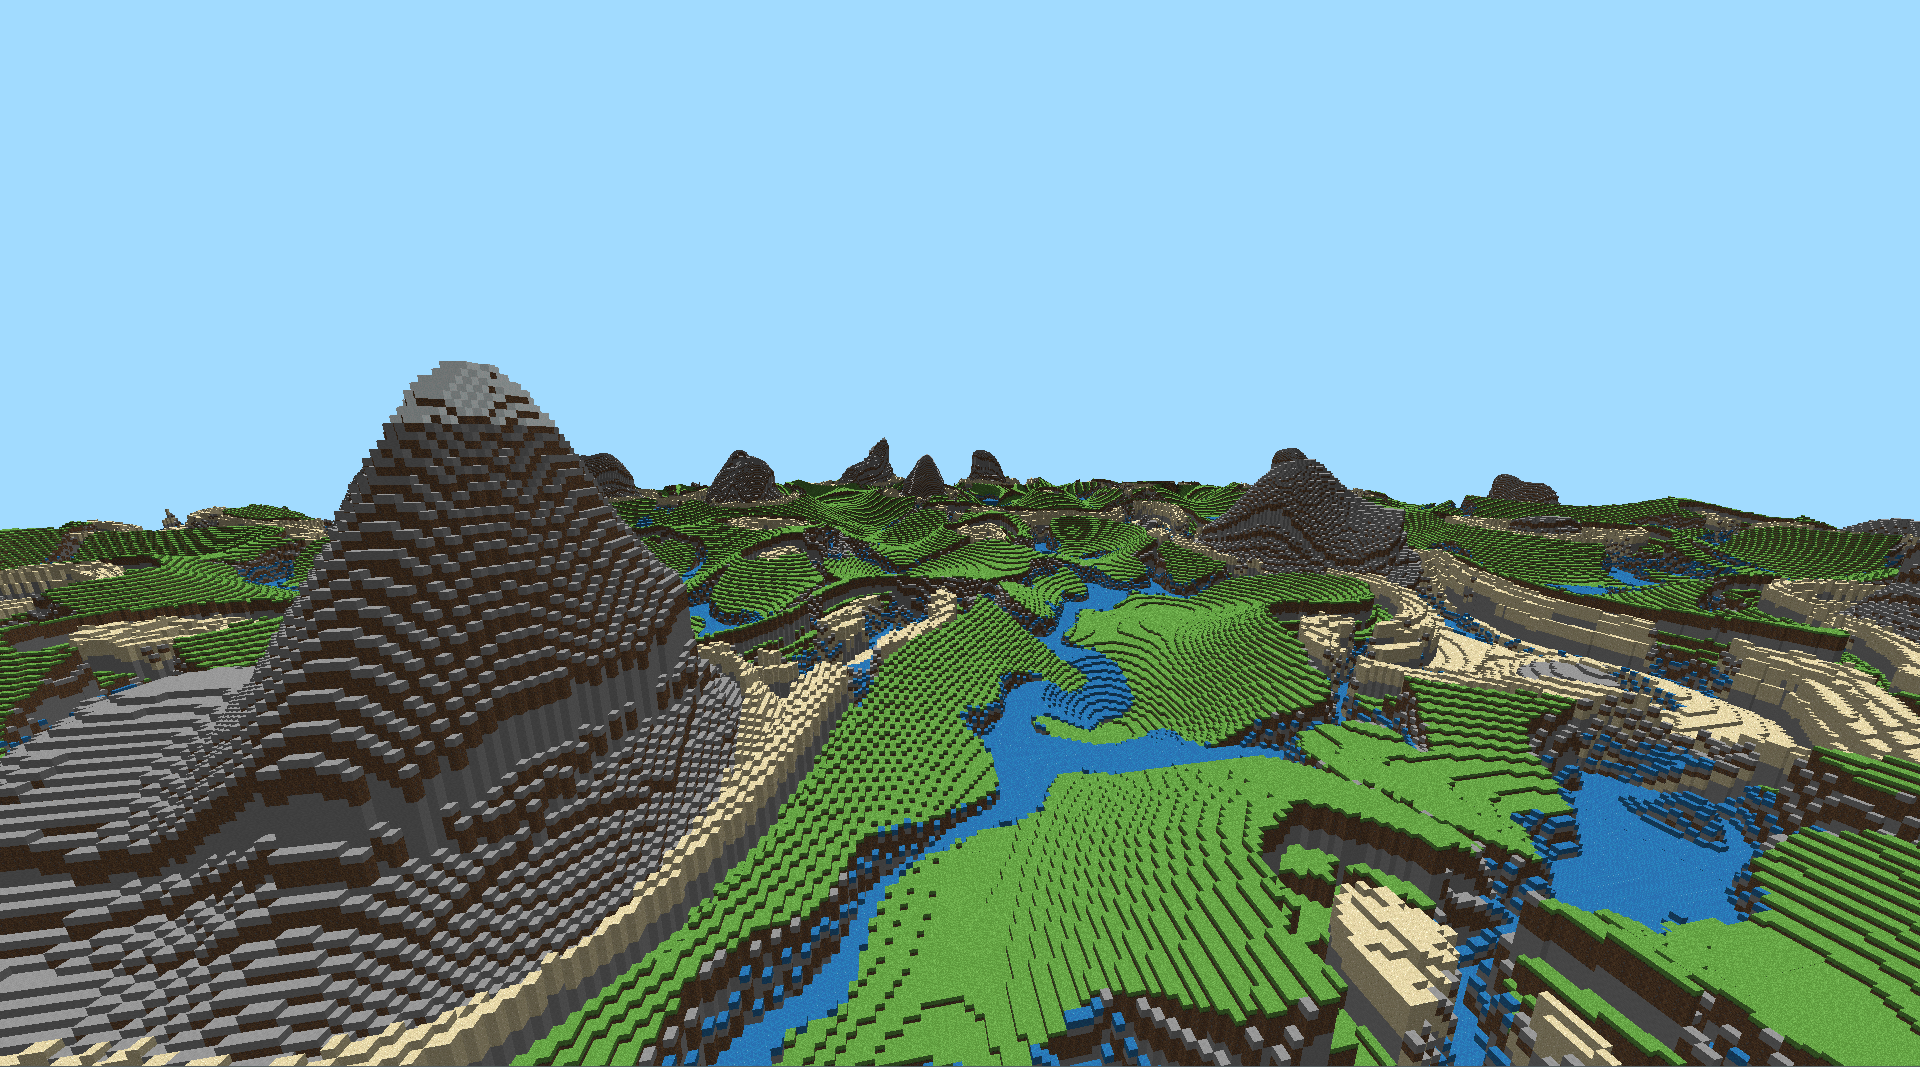
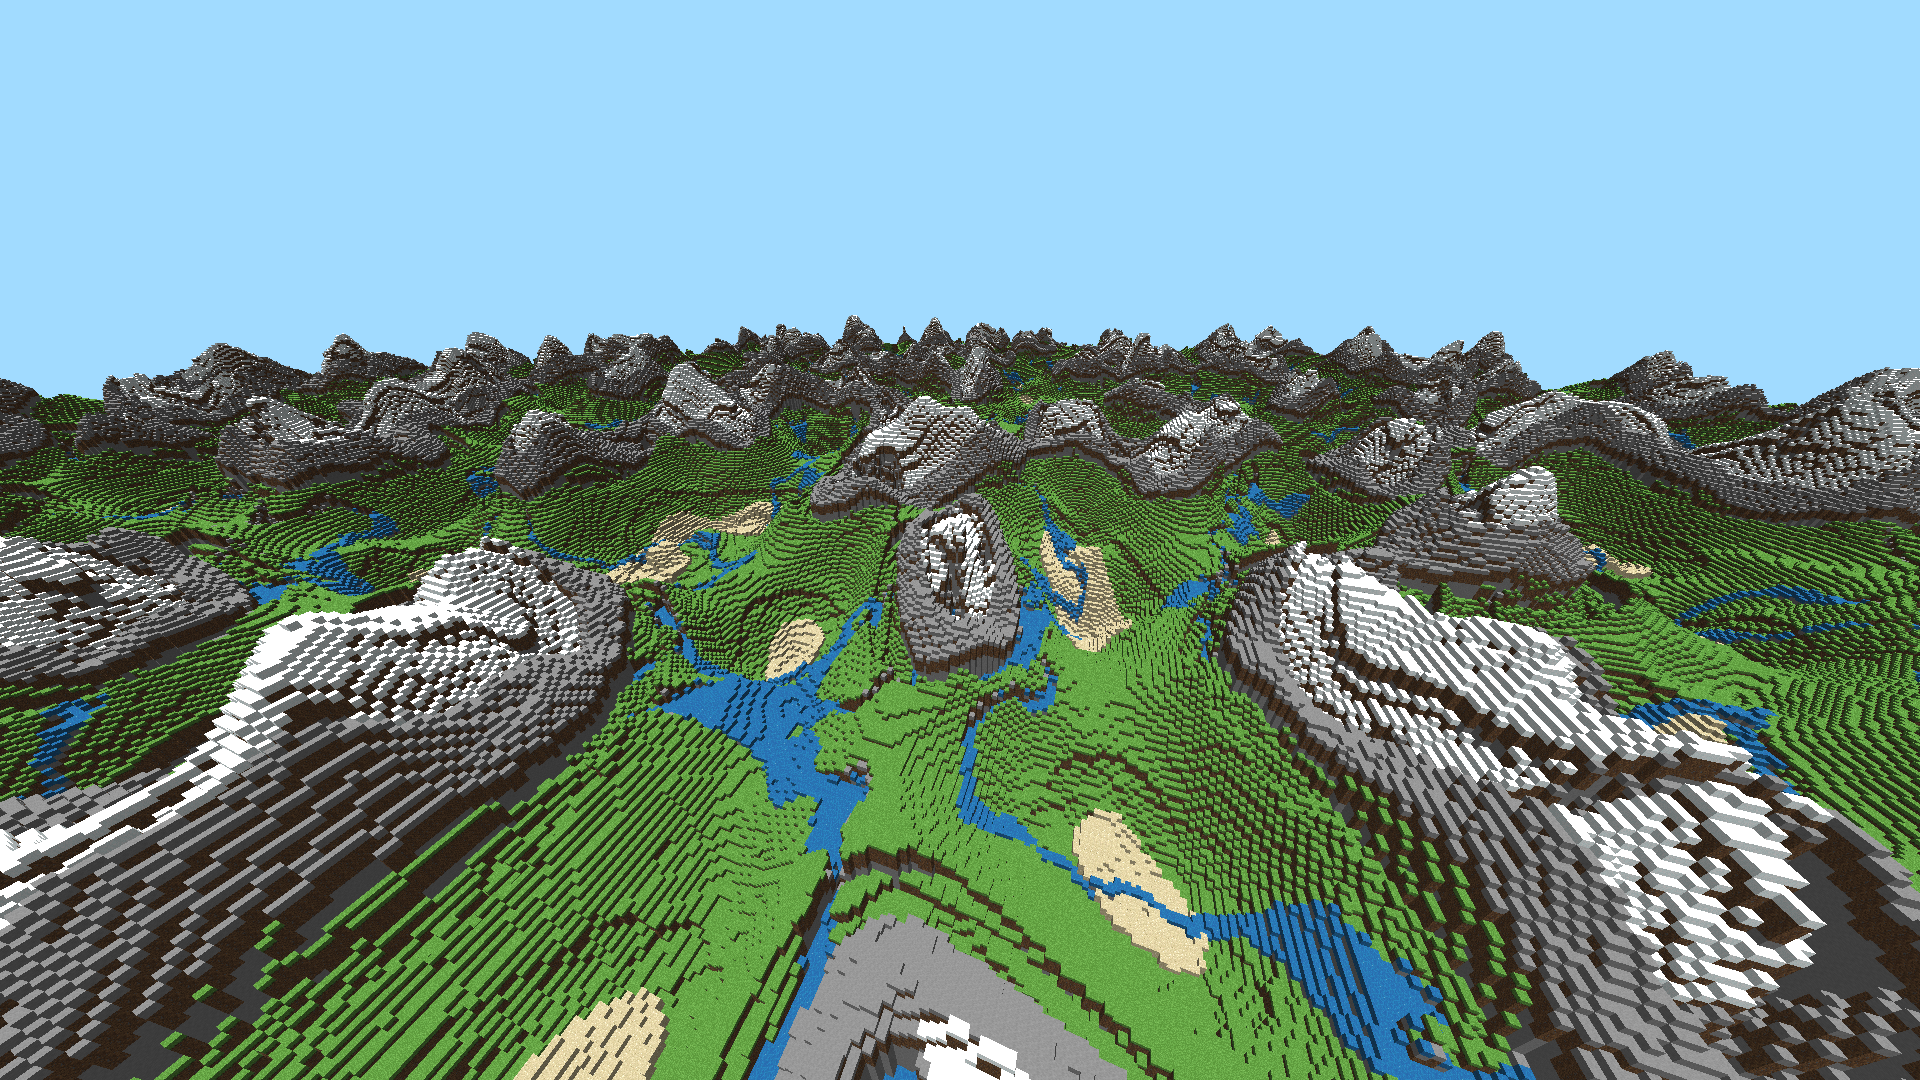
world terrain changes

diff --git a/src/world/world_generator.h b/src/world/world_generator.h
@@ -116,9 +116,9 @@ class WorldGenerator {
     float mappedValue = (noiseValue + 1.0f) * 0.5f;
     
     // Adjusted biome distribution
-    if (mappedValue < 0.30f) return PLAINS;      // 30% chance
-    if (mappedValue < 0.60f) return FOREST;      // 30% chance
-    if (mappedValue < 0.70f) return DESERT;      // 10% chance
+    if (mappedValue < 0.10f) return DESERT;      // 10% chance
+    if (mappedValue < 0.40f) return PLAINS;      // 30% chance
+    if (mappedValue < 0.70f) return FOREST;      // 30% chance
     if (mappedValue < 0.85f) return MOUNTAINS;   // 15% chance
     return TUNDRA;                               // 15% chance
   }
